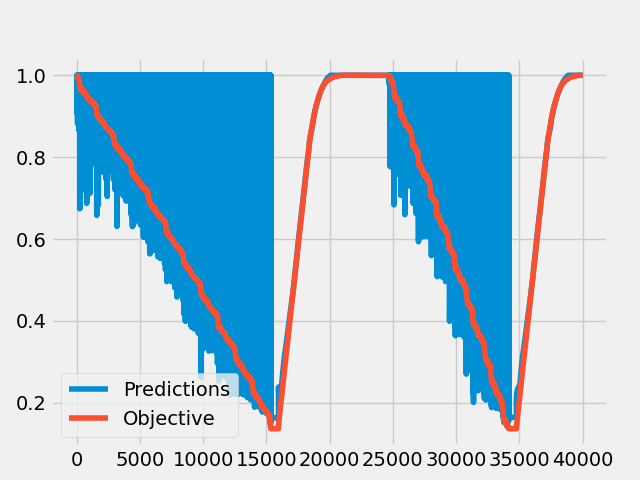
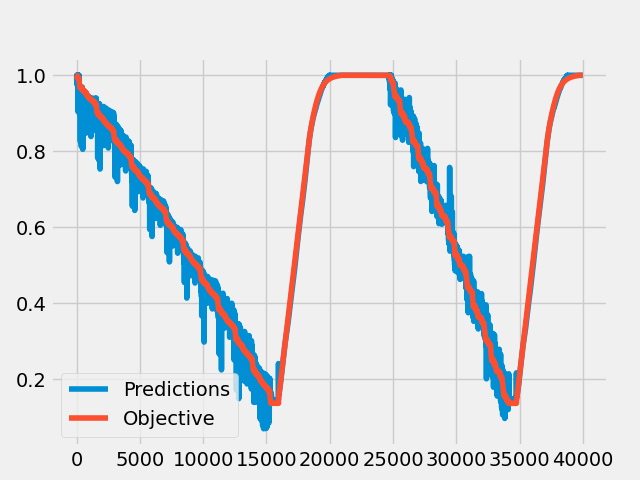
trial

diff --git a/main.py b/main.py
@@ -28,6 +28,10 @@ def split_sequences(sequences, n_steps):
             break
         # gather input and output parts of the pattern
         seq_x, seq_y = sequences[i:current_end, :-1], sequences[current_end-1, -1]
+        #seq_x = []
+        #seq_y = sequences[current_end-1, -1]
+        #for j in range(i, current_end, 1000):
+        #    seq_x.append(sequences[j,-1])
         X.append(seq_x)
         Y.append(seq_y)
     return array(X), array(Y)
@@ -38,12 +42,12 @@ def split_sequences(sequences, n_steps):
 num_responses = 1
 num_features = 3
 num_hidden_units = 10
-epochs = 10
+epochs = 2
 batch_size = 100
 learn_rate_drop_period = 2000
 LearningRate = 0.01
 learn_rate_drop_factor = 0.5
-timesteps = 50
+timesteps = 1000
 n_features = 3
 
 ## prepare train data
@@ -80,16 +84,14 @@ test_data = hstack((V,I,T,SOC))
 
 
 x_train, y_train = split_sequences(train_data, timesteps)
-print(x_train.shape, y_train.shape)
 
 x_test, y_test = split_sequences(test_data, timesteps)
-print(x_test.shape, y_test.shape)
 
 ## Build the LSTM model
 # Defined the model using same design as the Abstract
 model = Sequential()
 #model.add(LSTM(10, batch_input_shape=(0,x_train.shape[1],n_features), stateful=True,return_sequences=False))
-model.add(LSTM(10, activation='relu', input_shape=(timesteps, n_features)))
+model.add(LSTM(10, input_shape=(timesteps, n_features)))
 model.add(Dense(1))
 model.add(tf.keras.layers.ReLU(max_value=1))
 model.summary()
@@ -130,5 +132,5 @@ plt.plot(y_test, label="Objective")
 # Add a legend
 plt.legend()
 # Show the plot
-plt.savefig('prediction.png')
+plt.savefig('prediction2.png')
 #plt.show()
